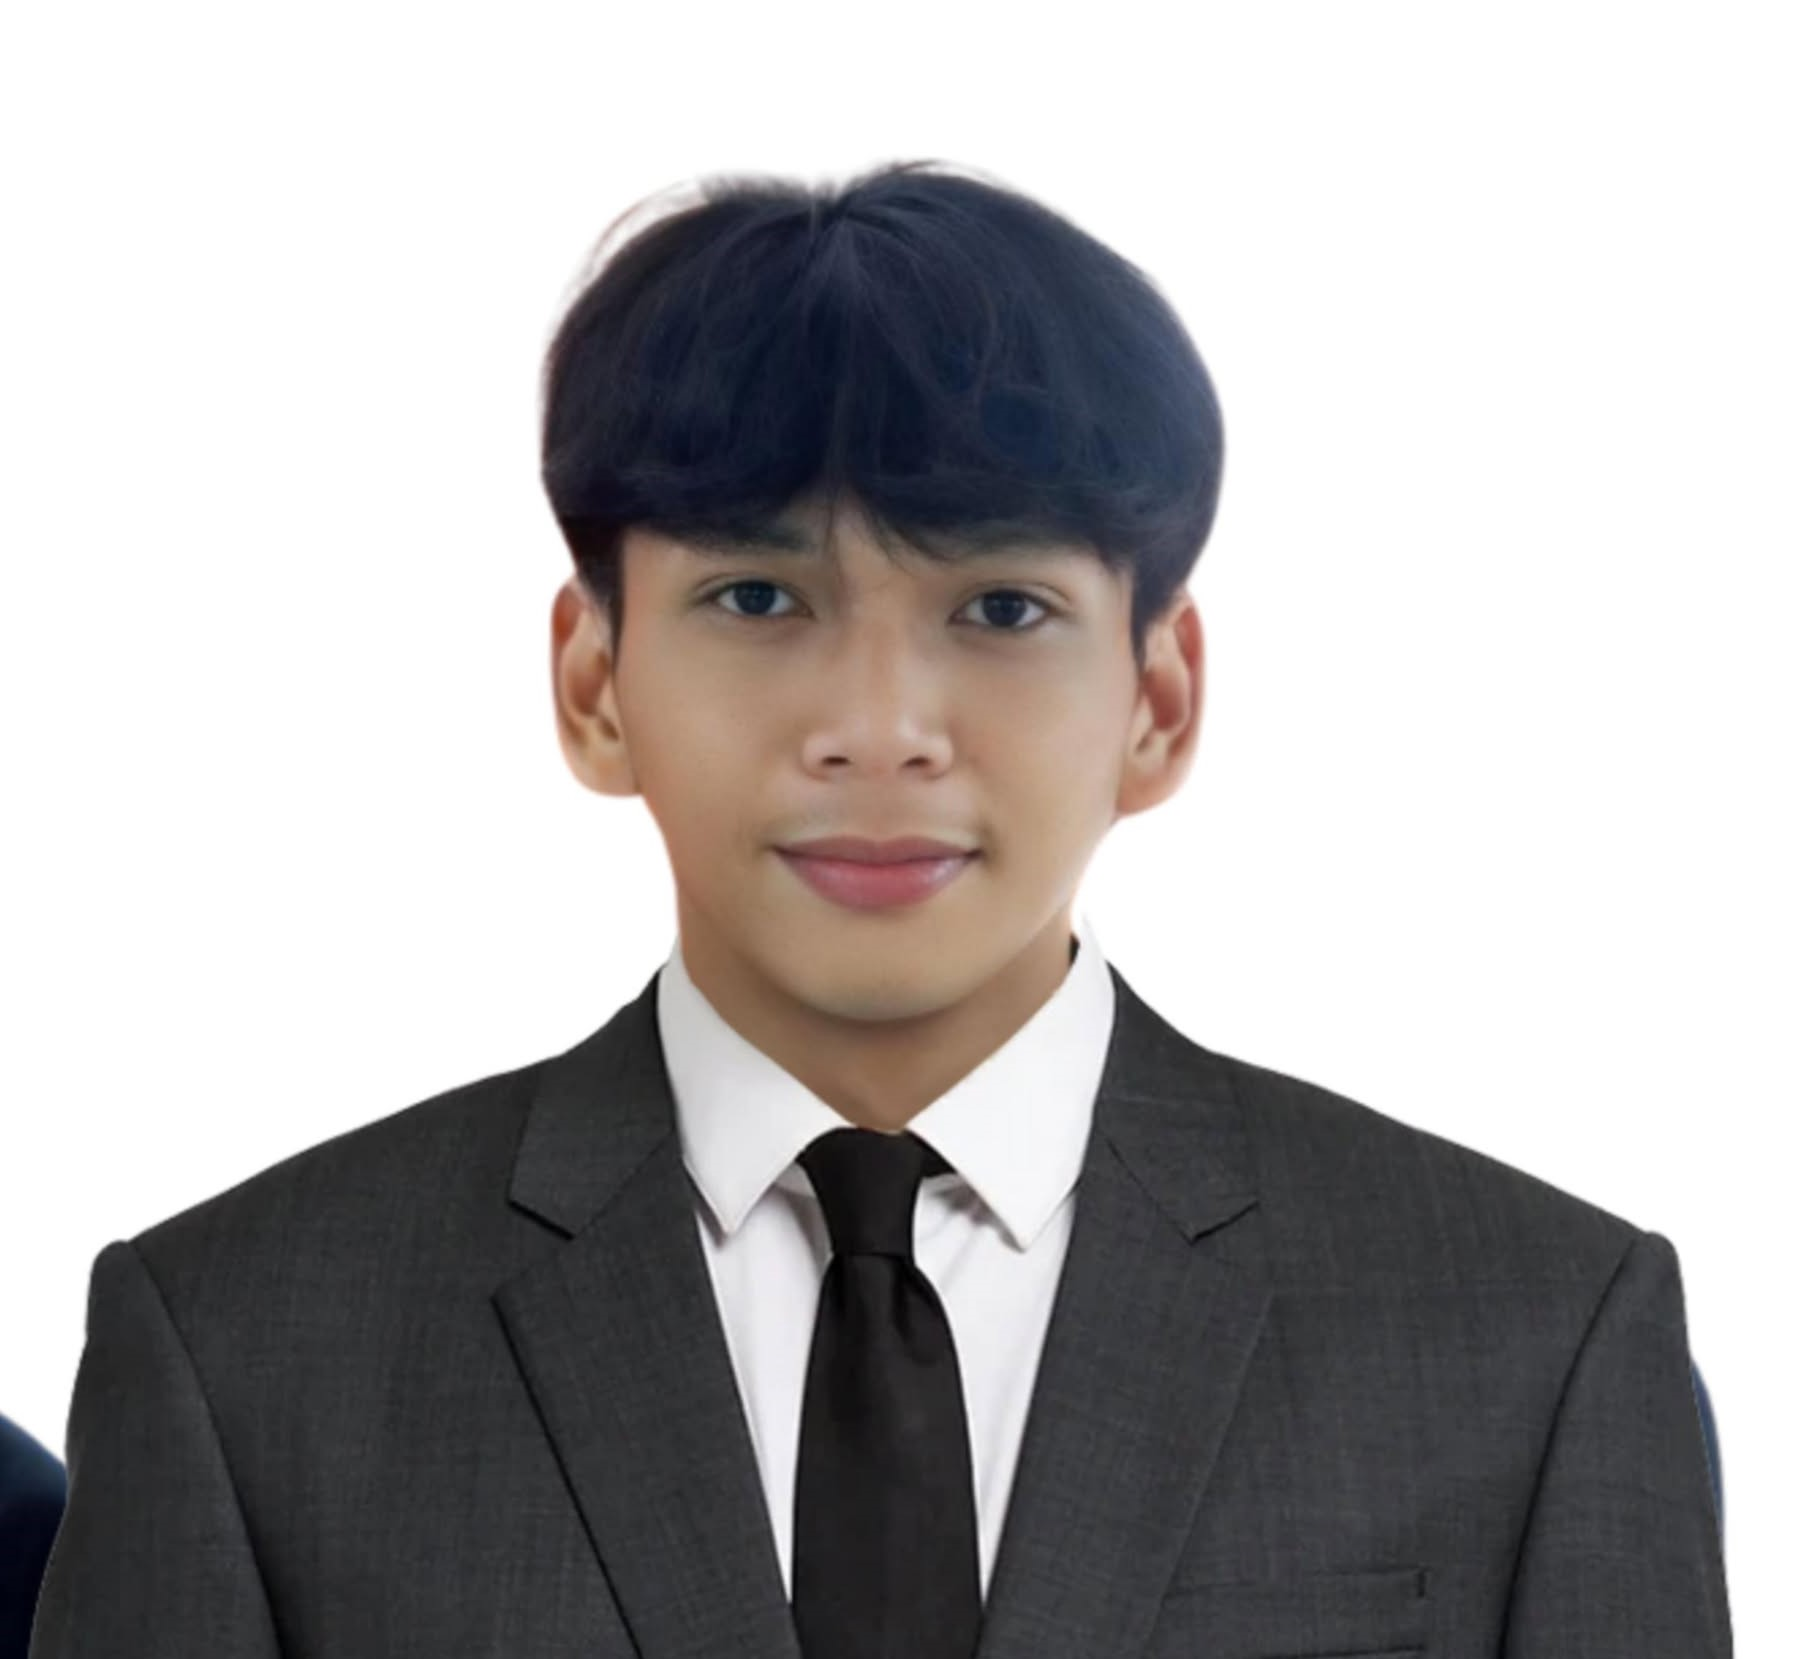
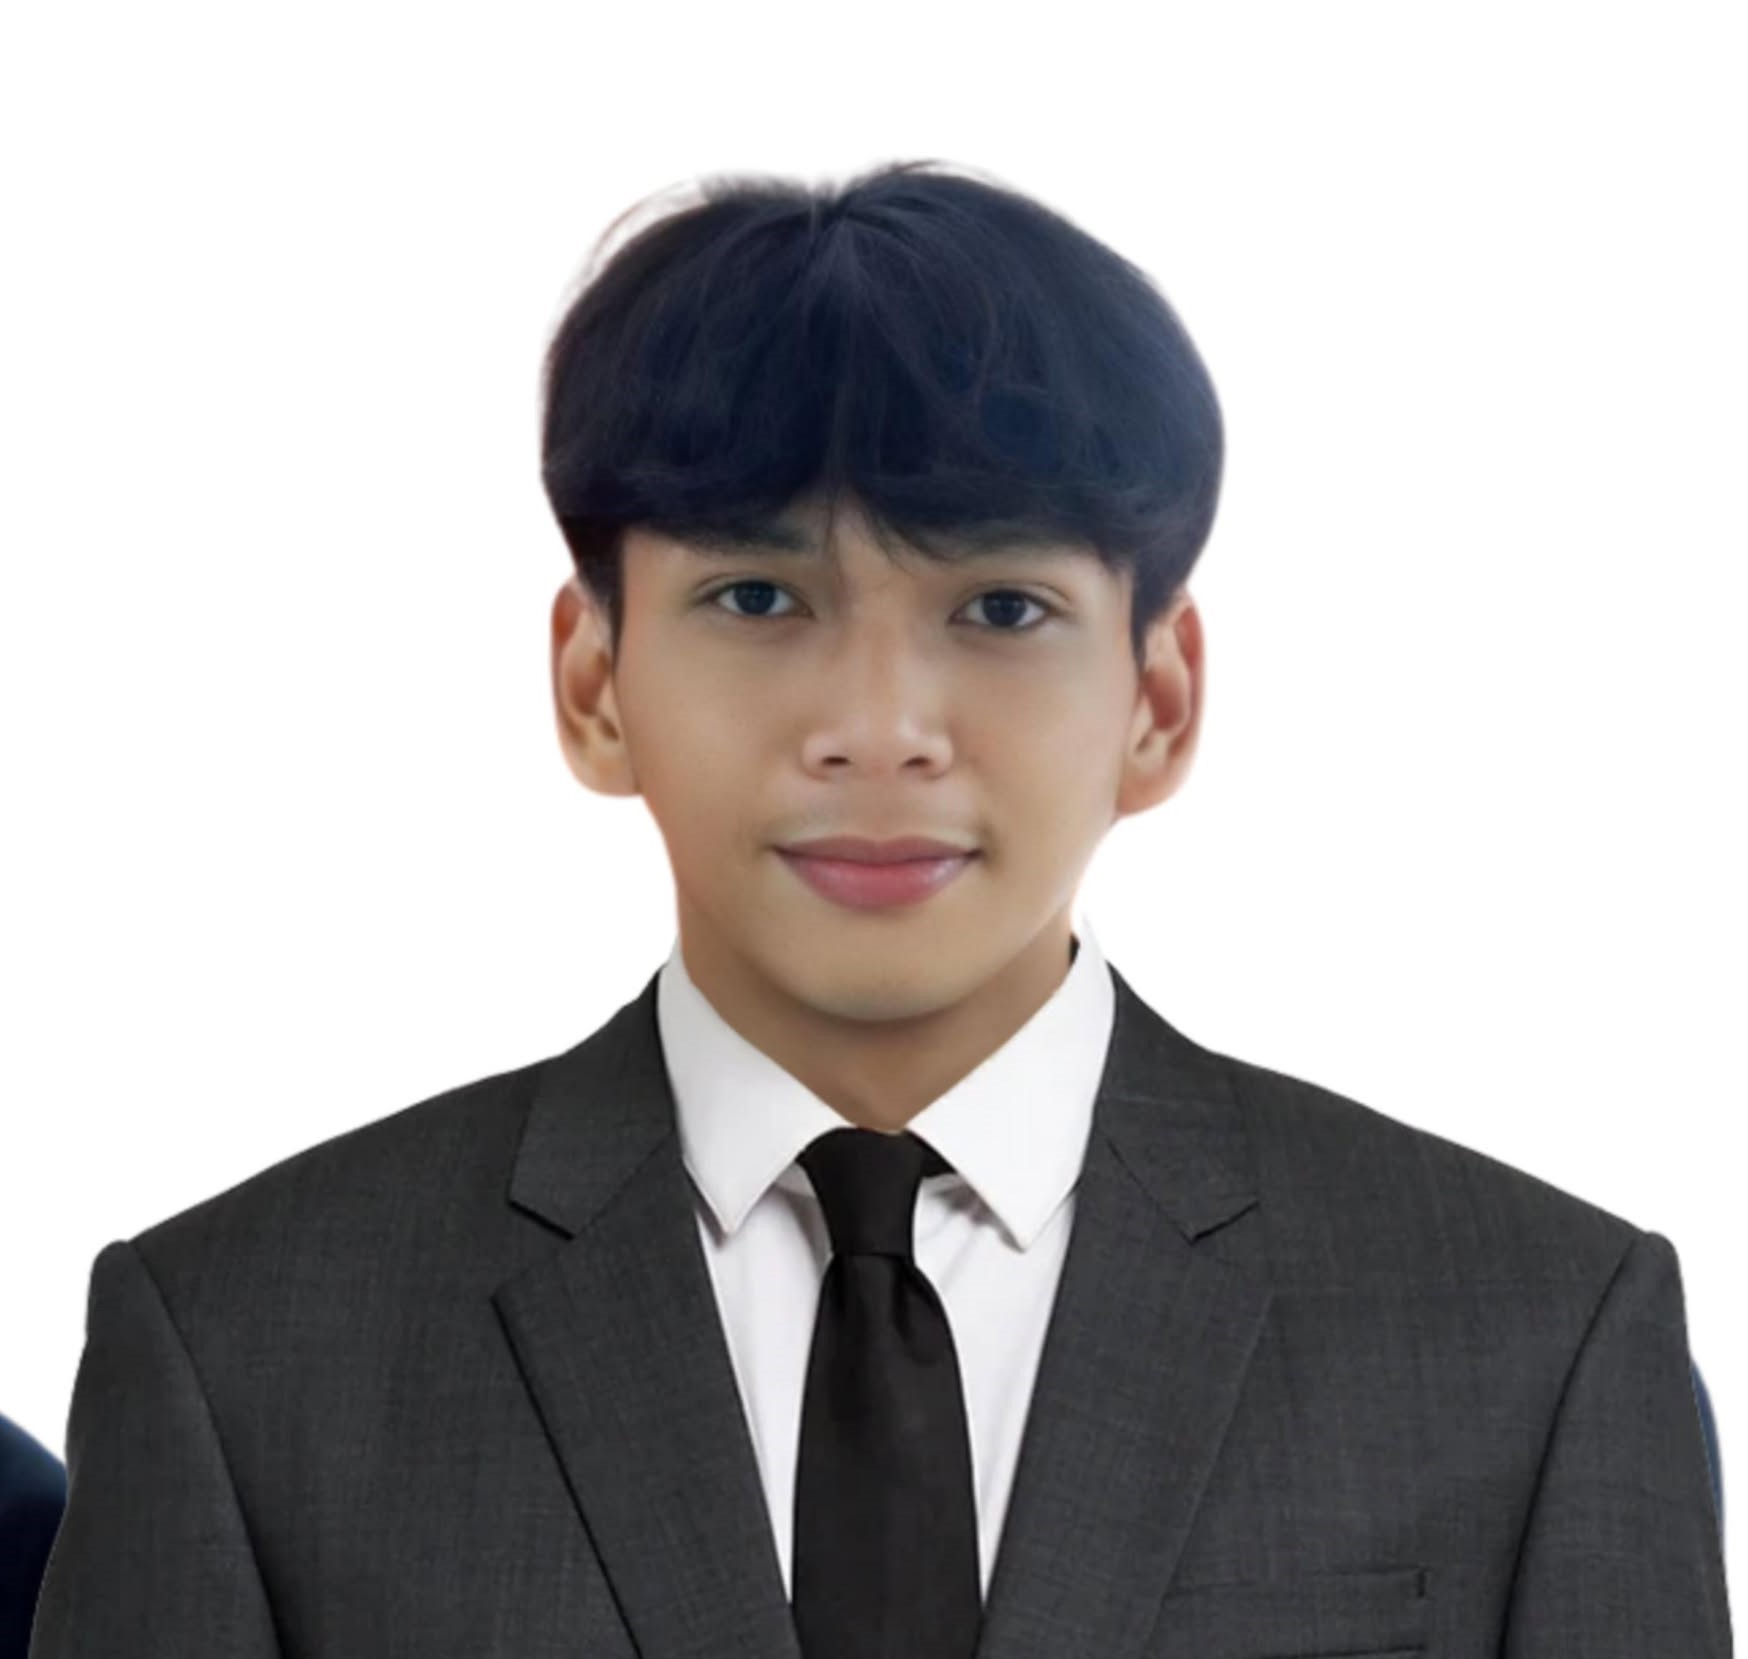
photo added

diff --git a/about.html b/about.html
@@ -126,7 +126,7 @@
         <div class="container" data-aos="fade-up" data-aos-delay="100">
           <div class="row gy-4 justify-content-center">
             <div class="col-lg-4">
-              <img src="" class="img-fluid" alt="" style="border-radius: 300px;" />
+              <img src="assets/img/portfolio/idpic.jpg" class="img-fluid" alt="" style="border-radius: 100%;" />
             </div>
             <div class="col-lg-8 content">
               <h2>UI/UX Designer</h2>
